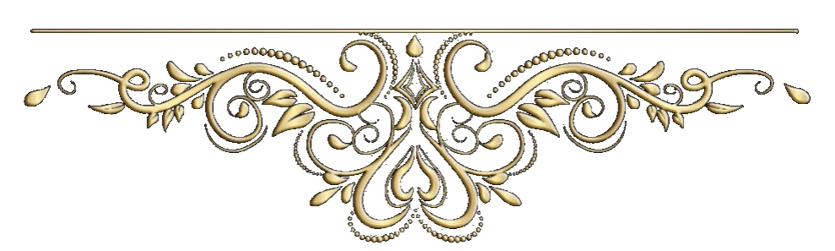
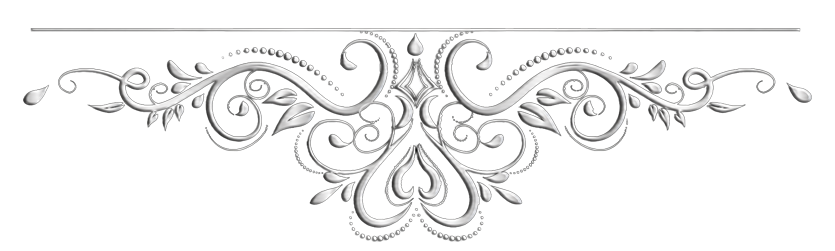
0.0.5

Changed region(s): [[0.0311, 0.1116, 0.9964, 0.9761]]

diff --git a/app.bundle.js b/app.bundle.js
@@ -19114,15 +19114,15 @@ ${n.map((r2, o3) => `${o3 + 1}) ${r2.toString()}`).join(`
           }, { allowSignalWrites: true });
         }
         ngAfterViewInit() {
-          window.matchMedia("(max-width: 600px)").matches ? this.portadaUrl = "assets/images/WhatsApp Image 2026-08-03 at 7.11.26 PM.jpeg" : this.portadaUrl = "assets/images/WhatsApp Image 2026-08-03 at 7.11.26 PM.jpeg", this.mostrarIcono.set(true), setTimeout(() => {
+          window.matchMedia("(max-width: 600px)").matches ? this.portadaUrl = "assets/images/WhatsApp Image 2026-08-03 at 7.11.36 PM.jpeg" : this.portadaUrl = "assets/images/WhatsApp Image 2026-08-03 at 7.11.36 PM.jpeg", this.mostrarIcono.set(true), setTimeout(() => {
             this.mostrarIcono.set(false);
           }, 1e4);
         }
       }, __publicField(_a22, "\u0275fac", function(t7) {
         return new (t7 || _a22)(fs(s2));
-      }), __publicField(_a22, "\u0275cmp", yM({ type: _a22, selectors: [["Portada_1_Elegance"]], decls: 12, vars: 4, consts: [["background", ""], [1, "relative", "h-[100vh]"], ["ngSrc", "assets/images/WhatsApp%20Image%202026-08-03%20at%207.11.26%20PM.jpeg", "priority", "", "srcset", `
-              assets/images/WhatsApp%20Image%202026-08-03%20at%207.11.26%20PM.jpeg  600w,
-              assets/images/WhatsApp%20Image%202026-08-03%20at%207.11.26%20PM.jpeg 1200w
+      }), __publicField(_a22, "\u0275cmp", yM({ type: _a22, selectors: [["Portada_1_Elegance"]], decls: 12, vars: 4, consts: [["background", ""], [1, "relative", "h-[100vh]"], ["ngSrc", "assets/images/WhatsApp%20Image%202026-08-03%20at%207.11.36%20PM.jpeg", "priority", "", "srcset", `
+              assets/images/WhatsApp%20Image%202026-08-03%20at%207.11.36%20PM.jpeg  600w,
+              assets/images/WhatsApp%20Image%202026-08-03%20at%207.11.36%20PM.jpeg 1200w
             `, 1, "absolute", "object-[50%_20%]", "sm:object-[50%_40%]", "inset-0", "w-full", "h-full", "object-cover"], ["foreground", ""], ["id", "Inicio", 1, "sm:min-h-[100vh]", "h-[100vh]"], [1, "flex", "flex-col", "justify-center", "items-center", "h-[30vh]", "sm:h-[130vh]", "tracking-widest", "space-y-0", "text-primary-100"], [1, "text-6xl", 2, "text-shadow", "1px 1px black", 3, "ngClass"], [2, "text-shadow", "1px 1px black"], ["class", "absolute bottom-48 left-0 transition-opacity duration-1000 ease-in-out", 3, "ngClass", 4, "ngIf"], [1, "absolute", "bottom-48", "left-0", "transition-opacity", "duration-1000", "ease-in-out", 3, "ngClass"], ["src", "https://cdn.lordicon.com/ougeaphd.json", "trigger", "loop", "delay", "1000", "stroke", "light", "colors", "primary:#ffffff,secondary:#ffffff", 1, "rotate-90", 2, "width", "100px", "height", "150px"]], template: function(t7, p4) {
         t7 & 1 && (wu(0, "Scroller")(1, "div", 0)(2, "div", 1), fy(3, "img", 2), bu()(), wu(4, "div", 3)(5, "div", 4)(6, "div", 5)(7, "h1", 6), FM(8, " Sweet Sixteen - Amanda Marie "), bu(), wu(9, "h1", 7), FM(10, "09.04.2026"), bu()(), vm(11, N2, 2, 3, "div", 8), bu()()()), t7 & 2 && (iM(7), Jm("ngClass", VM(2, E4, p4.startNombres())), iM(4), Jm("ngIf", p4.mostrarIcono()));
       }, dependencies: [E3, Tn2, le3, he, de2], styles: [".nombre2[_ngcontent-%COMP%]{animation:_ngcontent-%COMP%_animacion2 3.5s alternate ease-in}@keyframes _ngcontent-%COMP%_animacion2{0%{-webkit-transform:scale(.4);transform:scale(.4);opacity:0}to{-webkit-transform:scale(1);transform:scale(1);opacity:1}}"] })), _a22);
@@ -23763,7 +23763,7 @@ see https://add-to-calendar-button.com for details.
           __publicField(this, "launchDate", (/* @__PURE__ */ new Date("September 4, 2026 19:00:00")).getTime());
         }
         ngOnInit() {
-          typeof window < "u" && (window.matchMedia("(max-width: 600px)").matches ? this.counterUrl = "assets/images/WhatsApp%20Image%202026-08-03%20at%207.11.36%20PM.jpeg" : this.counterUrl = "assets/images/WhatsApp%20Image%202026-08-03%20at%207.11.36%20PM.jpeg"), this.timer = setInterval(() => this.tick(), 1e3);
+          typeof window < "u" && (window.matchMedia("(max-width: 600px)").matches ? this.counterUrl = "assets/images/WhatsApp%20Image%202026-08-03%20at%207.11.26%20PM.jpeg" : this.counterUrl = "assets/images/WhatsApp%20Image%202026-08-03%20at%207.11.26%20PM.jpeg"), this.timer = setInterval(() => this.tick(), 1e3);
         }
         tick() {
           let t7 = (/* @__PURE__ */ new Date()).getTime(), n = this.launchDate - t7;
@@ -23910,7 +23910,7 @@ see https://add-to-calendar-button.com for details.
               assets/images/pink-butterflies.png  600w,
               assets/images/pink-butterflies.png 1200w
             `, "fill", "", 1, "object-cover", "brightness-[100%]"], ["foreground", ""], ["id", "Itinerario", 1, "w-11/12", "py-10", "mx-auto", "min-h-[100vh]", "flex"], [1, "mx-auto", "bg-primary-200/80", "py-5", "sm:bg-[left_calc(50%)_top_calc(40%)]", "bg-[left_calc(40%)_top_calc(40%)]", "sm:min-h-[30vh]", "min-h-[50vh]", "bg-cover", "relative", "w-full", "sm:w-1/2", "z-50"], [1, "p-5"], ["data-aos", "fade-right", 1, "sm:py-2", "py-1", "text-primary-100"], [1, "relative"], [2, "position", "absolute", "top", "1%", "left", "50%", "transform", "translateX(-50%)", "height", "100%", "width", "0.7vh", "z-index", "1", 3, "ngStyle"], [1, "flex", "relative", "justify-center", "-translate-y-2", "z-50", "text-primary-100"], [1, "fas", "fa-heart", "text-4xl", "ceremony-text"], [1, "colorOne"], [1, "grid", "grid-cols-2", "text-center", "mx-auto", "p-2", "sm:p-5"], [1, ""], ["trigger", "hover", "delay", "1000", "trigger", "loop", "src", "https://cdn.lordicon.com/rlngnytn.json", 2, "width", "130px", "height", "130px"], [1, "flex", "flex-col", "items-center", "justify-center", "translate-x-2"], [1, "ceremony-text", 3, "ngClass"], [1, "flex", "relative", "justify-center", "-translate-y-2", "z-50", 3, "ngClass"], [1, "colorTwo"], [1, "flex", "flex-col", "items-center", "justify-center", "-translate-x-2"], ["src", "https://cdn.lordicon.com/wxnxiano.json", "delay", "1000", "trigger", "loop", 2, "width", "130px", "height", "130px"], [1, "colorThree"], ["src", "https://cdn.lordicon.com/jbbaiwhg.json", "delay", "1000", "trigger", "loop", 2, "width", "130px", "height", "130px"], [1, "colorFour"], ["src", "https://cdn.lordicon.com/txqkxliv.json", "delay", "1000", "trigger", "loop", 2, "width", "130px", "height", "130px"], [1, "flex", "relative", "justify-center", "translate-y-8", "z-50", 3, "ngClass"], [1, "colorFive"], ["src", "https://cdn.lordicon.com/dlnpcmpd.json", "delay", "1000", "trigger", "loop", 2, "width", "130px", "height", "130px"]], template: function(l, e8) {
-        l & 1 && (wu(0, "Scroller")(1, "div", 0)(2, "div", 1), fy(3, "img", 2), bu()(), wu(4, "div", 3)(5, "div", 4)(6, "div", 5)(7, "div", 6)(8, "h1", 7), FM(9, " Itinerario "), bu(), wu(10, "div", 8), fy(11, "div", 9), wu(12, "div", 10), fy(13, "i", 11), bu(), wu(14, "div", 12)(15, "div", 13)(16, "div", 14), fy(17, "lord-icon", 15), bu(), wu(18, "div", 16)(19, "h3", 17), FM(20, " Recepcion "), bu(), wu(21, "h3", 17), FM(22, " 8:00 p.m. "), bu()()()(), wu(23, "div", 18), fy(24, "i", 11), bu(), wu(25, "div", 19)(26, "div", 13)(27, "div", 20)(28, "h3", 17), FM(29, " Presentacion "), bu(), wu(30, "h3", 17), FM(31, " 8:30 p.m. "), bu()(), wu(32, "div", 14), fy(33, "lord-icon", 21), bu()()(), wu(34, "div", 18), fy(35, "i", 11), bu(), wu(36, "div", 22)(37, "div", 13)(38, "div", 14), fy(39, "lord-icon", 23), bu(), wu(40, "div", 16)(41, "h3", 17), FM(42, " Cena "), bu(), wu(43, "h3", 17), FM(44, " 9:00 p.m. "), bu()()()(), wu(45, "div", 18), fy(46, "i", 11), bu(), wu(47, "div", 24)(48, "div", 13)(49, "div", 20)(50, "h3", 17), FM(51, " Baile "), bu(), wu(52, "h3", 17), FM(53, " 9:30 p.m. "), bu()(), wu(54, "div", 14), fy(55, "lord-icon", 25), bu()()(), wu(56, "div", 26), fy(57, "i", 11), bu(), wu(58, "div", 27)(59, "div", 13)(60, "div", 14), fy(61, "lord-icon", 28), bu(), wu(62, "div", 16)(63, "h3", 17), FM(64, " Despedida "), bu(), wu(65, "h3", 17), FM(66, " 1:00 a.m. "), bu()()()(), wu(67, "div", 26), fy(68, "i", 11), bu()()()()()()()), l & 2 && (iM(11), Jm("ngStyle", VM(21, w5, e8.getGradientStyle())), iM(6), Um("colors", e8.getColors()), iM(2), Jm("ngClass", e8.colorparte1() ? "text-primary-100" : "text-primary-500"), iM(2), Jm("ngClass", e8.colorparte1() ? "text-primary-100" : "text-primary-500"), iM(2), Jm("ngClass", e8.colorparte2() ? "text-primary-100" : "text-primary-500"), iM(5), Jm("ngClass", e8.colorparte2() ? "text-primary-100" : "text-primary-500"), iM(2), Jm("ngClass", e8.colorparte2() ? "text-primary-100" : "text-primary-500"), iM(3), Um("colors", e8.getColors2()), iM(), Jm("ngClass", e8.colorparte3() ? "text-primary-100" : "text-primary-500"), iM(5), Um("colors", e8.getColors3()), iM(2), Jm("ngClass", e8.colorparte3() ? "text-primary-100" : "text-primary-500"), iM(2), Jm("ngClass", e8.colorparte3() ? "text-primary-100" : "text-primary-500"), iM(2), Jm("ngClass", e8.colorparte4() ? "text-primary-100" : "text-primary-500"), iM(5), Jm("ngClass", e8.colorparte4() ? "text-primary-100" : "text-primary-500"), iM(2), Jm("ngClass", e8.colorparte4() ? "text-primary-100" : "text-primary-500"), iM(3), Um("colors", e8.getColors4()), iM(), Jm("ngClass", e8.colorparte5() ? "text-primary-100" : "text-primary-500"), iM(5), Um("colors", e8.getColors5()), iM(2), Jm("ngClass", e8.colorparte5() ? "text-primary-100" : "text-primary-500"), iM(2), Jm("ngClass", e8.colorparte5() ? "text-primary-100" : "text-primary-500"), iM(2), Jm("ngClass", e8.colorparte5() ? "text-primary-100" : "text-primary-500"));
+        l & 1 && (wu(0, "Scroller")(1, "div", 0)(2, "div", 1), fy(3, "img", 2), bu()(), wu(4, "div", 3)(5, "div", 4)(6, "div", 5)(7, "div", 6)(8, "h1", 7), FM(9, " Itinerario "), bu(), wu(10, "div", 8), fy(11, "div", 9), wu(12, "div", 10), fy(13, "i", 11), bu(), wu(14, "div", 12)(15, "div", 13)(16, "div", 14), fy(17, "lord-icon", 15), bu(), wu(18, "div", 16)(19, "h3", 17), FM(20, " Recepcion "), bu(), wu(21, "h3", 17), FM(22, " 7:00 PM "), bu()()()(), wu(23, "div", 18), fy(24, "i", 11), bu(), wu(25, "div", 19)(26, "div", 13)(27, "div", 20)(28, "h3", 17), FM(29, " Presentacion "), bu(), wu(30, "h3", 17), FM(31, " 7:30 PM "), bu()(), wu(32, "div", 14), fy(33, "lord-icon", 21), bu()()(), wu(34, "div", 18), fy(35, "i", 11), bu(), wu(36, "div", 22)(37, "div", 13)(38, "div", 14), fy(39, "lord-icon", 23), bu(), wu(40, "div", 16)(41, "h3", 17), FM(42, " Cena "), bu(), wu(43, "h3", 17), FM(44, " 8:30 PM "), bu()()()(), wu(45, "div", 18), fy(46, "i", 11), bu(), wu(47, "div", 24)(48, "div", 13)(49, "div", 20)(50, "h3", 17), FM(51, " Baile "), bu(), wu(52, "h3", 17), FM(53, " 9:00 PM "), bu()(), wu(54, "div", 14), fy(55, "lord-icon", 25), bu()()(), wu(56, "div", 26), fy(57, "i", 11), bu(), wu(58, "div", 27)(59, "div", 13)(60, "div", 14), fy(61, "lord-icon", 28), bu(), wu(62, "div", 16)(63, "h3", 17), FM(64, " Despedida "), bu(), wu(65, "h3", 17), FM(66, " 1:00 AM "), bu()()()(), wu(67, "div", 26), fy(68, "i", 11), bu()()()()()()()), l & 2 && (iM(11), Jm("ngStyle", VM(21, w5, e8.getGradientStyle())), iM(6), Um("colors", e8.getColors()), iM(2), Jm("ngClass", e8.colorparte1() ? "text-primary-100" : "text-primary-500"), iM(2), Jm("ngClass", e8.colorparte1() ? "text-primary-100" : "text-primary-500"), iM(2), Jm("ngClass", e8.colorparte2() ? "text-primary-100" : "text-primary-500"), iM(5), Jm("ngClass", e8.colorparte2() ? "text-primary-100" : "text-primary-500"), iM(2), Jm("ngClass", e8.colorparte2() ? "text-primary-100" : "text-primary-500"), iM(3), Um("colors", e8.getColors2()), iM(), Jm("ngClass", e8.colorparte3() ? "text-primary-100" : "text-primary-500"), iM(5), Um("colors", e8.getColors3()), iM(2), Jm("ngClass", e8.colorparte3() ? "text-primary-100" : "text-primary-500"), iM(2), Jm("ngClass", e8.colorparte3() ? "text-primary-100" : "text-primary-500"), iM(2), Jm("ngClass", e8.colorparte4() ? "text-primary-100" : "text-primary-500"), iM(5), Jm("ngClass", e8.colorparte4() ? "text-primary-100" : "text-primary-500"), iM(2), Jm("ngClass", e8.colorparte4() ? "text-primary-100" : "text-primary-500"), iM(3), Um("colors", e8.getColors4()), iM(), Jm("ngClass", e8.colorparte5() ? "text-primary-100" : "text-primary-500"), iM(5), Um("colors", e8.getColors5()), iM(2), Jm("ngClass", e8.colorparte5() ? "text-primary-100" : "text-primary-500"), iM(2), Jm("ngClass", e8.colorparte5() ? "text-primary-100" : "text-primary-500"), iM(2), Jm("ngClass", e8.colorparte5() ? "text-primary-100" : "text-primary-500"));
       }, dependencies: [E3, le3, fe3, Tn2], encapsulation: 2 })), _a32);
     }
   });
@@ -24228,7 +24228,7 @@ see https://add-to-calendar-button.com for details.
       E6 = (_a46 = class {
         constructor() {
           __publicField(this, "texture_url", "assets/images/texture.jpg");
-          __publicField(this, "backgrounds", ["assets/images/WhatsApp%20Image%202026-08-03%20at%207.11.27%20PM.jpeg", "assets/images/WhatsApp%20Image%202026-08-03%20at%207.11.27%20PM.jpeg", "assets/images/WhatsApp%20Image%202026-08-03%20at%207.11.27%20PM.jpeg", "assets/images/WhatsApp%20Image%202026-08-03%20at%207.11.27%20PM.jpeg"]);
+          __publicField(this, "backgrounds", ["assets/images/WhatsApp%20Image%202026-08-03%20at%207.11.27%20PM%20%281%29.jpeg", "assets/images/WhatsApp%20Image%202026-08-03%20at%207.11.27%20PM%20%281%29.jpeg", "assets/images/WhatsApp%20Image%202026-08-03%20at%207.11.27%20PM%20%281%29.jpeg", "assets/images/WhatsApp%20Image%202026-08-03%20at%207.11.27%20PM%20%281%29.jpeg"]);
           __publicField(this, "currentSlide", Yb(0));
           __publicField(this, "apiKey", "ad3bb2f895d56006715216d6319558c3");
           __publicField(this, "city", "laredo,us");

diff --git a/xv-edits.js b/xv-edits.js
@@ -23,7 +23,7 @@
       dressBottom: "Code",
       formal: "Formal",
       formalInfo: "Formal attire requested",
-      colors: "Kindly reserve dusty blue and white for Amanda.",
+      colors: "Kindly reserve light shades of blue for Amanda",
       rsvp: "RSVP details coming soon. Please check back once the family confirms the RSVP contact.",
       gallery: "Photo Gallery"
     },
@@ -46,7 +46,7 @@
       dressBottom: "Vestimenta",
       formal: "Formal",
       formalInfo: "Se solicita vestimenta formal",
-      colors: "Por favor reserva los colores azul empolvado y blanco para Amanda.",
+      colors: "Por favor, reserva los tonos claros de azul para Amanda",
       rsvp: "Los detalles para confirmar asistencia estarán disponibles pronto.",
       gallery: "Galería de Fotos"
     }
@@ -72,6 +72,12 @@
         }
       });
     });
+
+    const cover = document.querySelector("#Inicio img");
+    if (cover) {
+      cover.src = "assets/images/WhatsApp Image 2026-08-03 at 7.11.36 PM.jpeg";
+      cover.removeAttribute("srcset");
+    }
   }
 
   function updateCover(c) {
@@ -118,10 +124,10 @@
     const headings = Array.from(section.querySelectorAll("h3"));
     const values = [
       [c.reception, "7:00 PM"],
-      [c.presentation, "8:00 p.m."],
-      [c.dinner, "9:00 p.m."],
-      [c.dance, "9:30 p.m."],
-      [c.farewell, "1:00 a.m."]
+      [c.presentation, "7:30 PM"],
+      [c.dinner, "8:30 PM"],
+      [c.dance, "9:00 PM"],
+      [c.farewell, "1:00 AM"]
     ];
     values.forEach((pair, index) => {
       text(headings[index * 2], pair[0]);
@@ -157,6 +163,22 @@
     const messages = section.querySelectorAll("h5");
     text(messages[0], c.giftIntro);
     text(messages[1], c.envelope);
+
+    if (!section.querySelector(".amanda-cashapp")) {
+      const cashApp = document.createElement("div");
+      const label = document.createElement("p");
+      const qr = document.createElement("img");
+
+      cashApp.className = "amanda-cashapp";
+      label.className = "amanda-cashapp-label";
+      label.textContent = "Cash App";
+      qr.src = "assets/images/cashapp-qr.png";
+      qr.alt = "Cash App QR code for Amanda Marie's Sweet Sixteen";
+      qr.width = 220;
+      qr.height = 220;
+      cashApp.append(label, qr);
+      section.querySelector("div.h-full")?.appendChild(cashApp);
+    }
   }
 
   function updateDressCode(c) {
@@ -215,7 +237,7 @@
     #Inicio > div:last-child { text-align: center; }
     counter_8_elegance > scroller > div:first-child,
     counter_8_elegance [style*="background-image"] {
-      background-image: url("assets/images/WhatsApp%20Image%202026-08-03%20at%207.11.36%20PM.jpeg") !important;
+      background-image: url("assets/images/WhatsApp%20Image%202026-08-03%20at%207.11.26%20PM.jpeg") !important;
       background-position: 50% 45% !important;
       background-size: cover !important;
       background-repeat: no-repeat !important;
@@ -224,9 +246,12 @@
     #Ubicaciones img[alt="Salón"] { width: 100%; max-height: 340px; object-fit: cover; image-rendering: auto; }
     .amanda-address { display: inline-block; margin-top: .55rem; font-family: Arial, sans-serif; font-size: .9rem; font-weight: 400; letter-spacing: .03em; text-transform: none; }
     #MesaDeRegalos h5 { line-height: 1.5; }
+    .amanda-cashapp { display: grid; justify-items: center; gap: .45rem; margin: 1.25rem auto .25rem; }
+    .amanda-cashapp-label { margin: 0; color: #fff; font-family: Georgia, "Times New Roman", serif; font-size: 1.15rem; font-weight: 600; letter-spacing: .08em; text-transform: uppercase; }
+    .amanda-cashapp img { display: block; width: min(220px, 72vw); height: auto; border: 8px solid #fff; border-radius: 6px; background: #fff; box-shadow: 0 8px 22px rgba(34, 53, 66, .2); }
     #CodigoDeVestimenta h3:last-child { max-width: 34rem; margin: .5rem auto 0; }
     sugerenciahospedaje_elegance [style*="background-image"]:not([style*="texture.jpg"]) {
-      background-image: url("assets/images/WhatsApp%20Image%202026-08-03%20at%207.11.27%20PM.jpeg") !important;
+      background-image: url("assets/images/WhatsApp%20Image%202026-08-03%20at%207.11.27%20PM%20%281%29.jpeg") !important;
       background-position: 50% 52% !important;
       background-size: cover !important;
       background-repeat: no-repeat !important;

diff --git a/language-toggle.js b/language-toggle.js
@@ -23,7 +23,7 @@
     "respectfully": "Respetuosamente",
     "no children": "NO NI\u00d1OS",
     "formal attire requested": "Se solicita vestimenta formal",
-    "kindly reserve dusty blue and white for amanda.": "Por favor reserva los colores azul empolvado y blanco para Amanda.",
+    "kindly reserve light shades of blue for amanda": "Por favor, reserva los tonos claros de azul para Amanda",
     "thank you for confirming your attendance": "Gracias por confirmar tu asistencia",
     "click here": "Haz clic aqu\u00ed",
     "home": "Inicio",
@@ -117,7 +117,7 @@
     "respetuosamente": "Respectfully",
     "no ni\u00f1os": "NO CHILDREN",
     "se solicita vestimenta formal": "Formal attire requested",
-    "por favor reserva los colores azul empolvado y blanco para amanda.": "Kindly reserve dusty blue and white for Amanda.",
+    "por favor, reserva los tonos claros de azul para amanda": "Kindly reserve light shades of blue for Amanda",
     "gracias por confirmar tu asistencia": "Thank you for confirming your attendance",
     "haz clic aqu\u00ed": "Click Here",
     "inicio": "Home",

diff --git a/index.html b/index.html
@@ -4854,10 +4854,10 @@
   <app-root></app-root>
   &nbsp;
   <script src="guest-api-config.js"></script>
-  <script src="language-toggle.js?v=20260806-1"></script>
+  <script src="language-toggle.js?v=20260806-2"></script>
   <script src="rsvp-button.js?v=20260806-1"></script>
-  <script src="xv-edits.js?v=20260806-5"></script>
-  <script defer src="app.bundle.js?v=20260806-4"></script>
+  <script src="xv-edits.js?v=20260806-7"></script>
+  <script defer src="app.bundle.js?v=20260806-6"></script>
 </body>
 
 </html>
